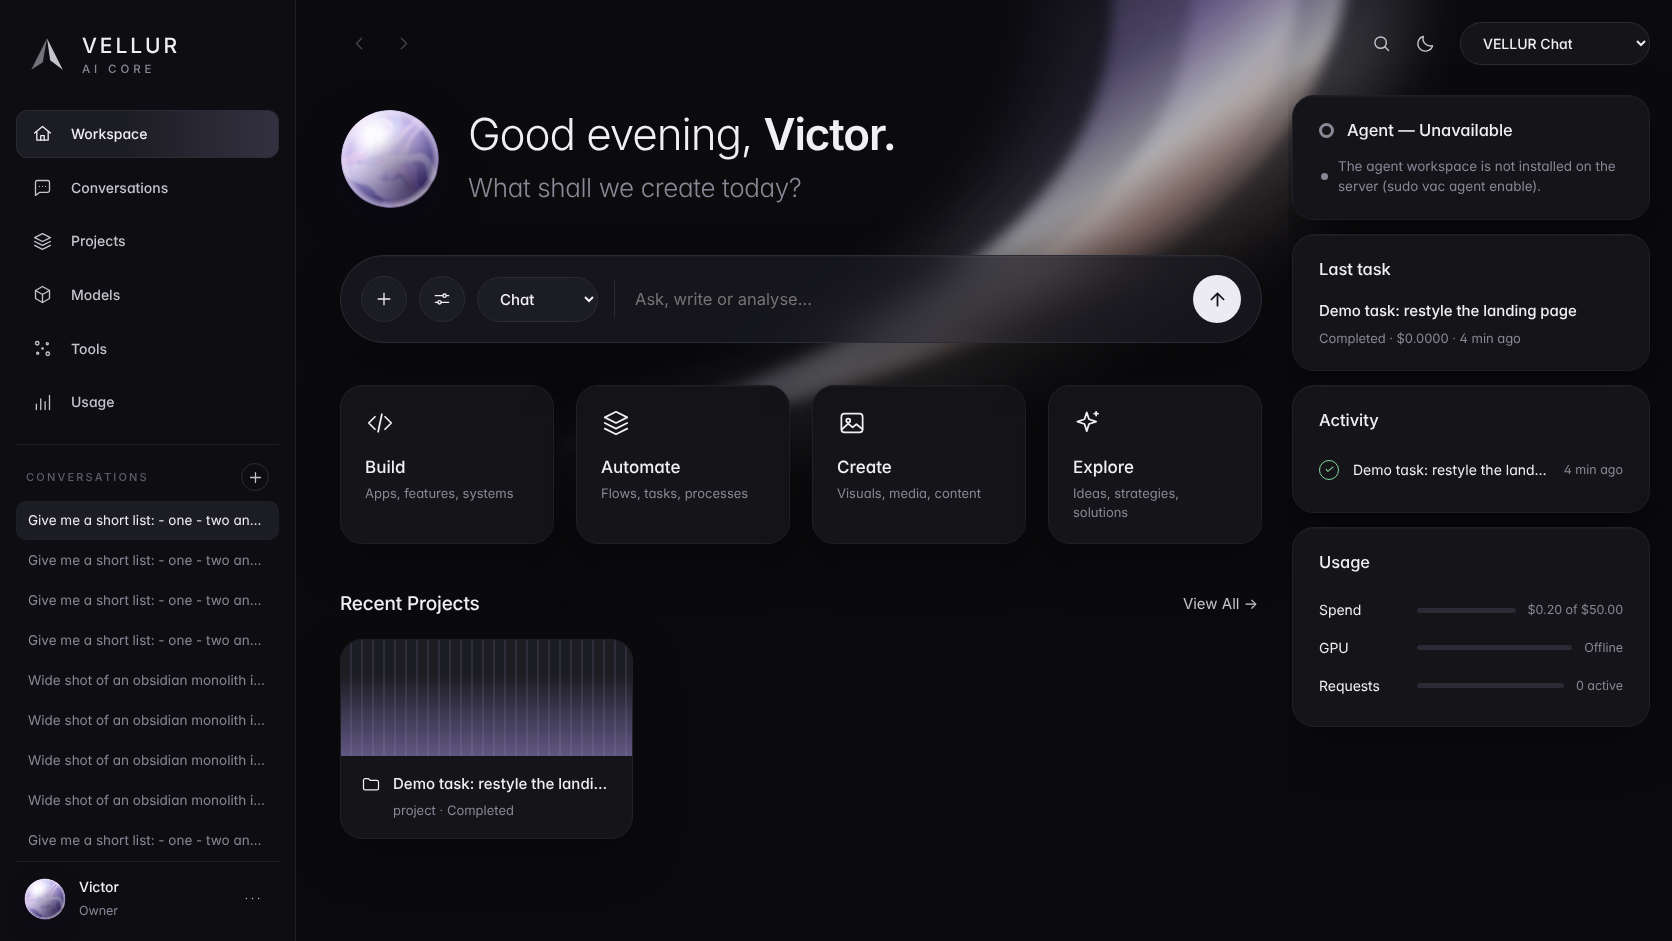
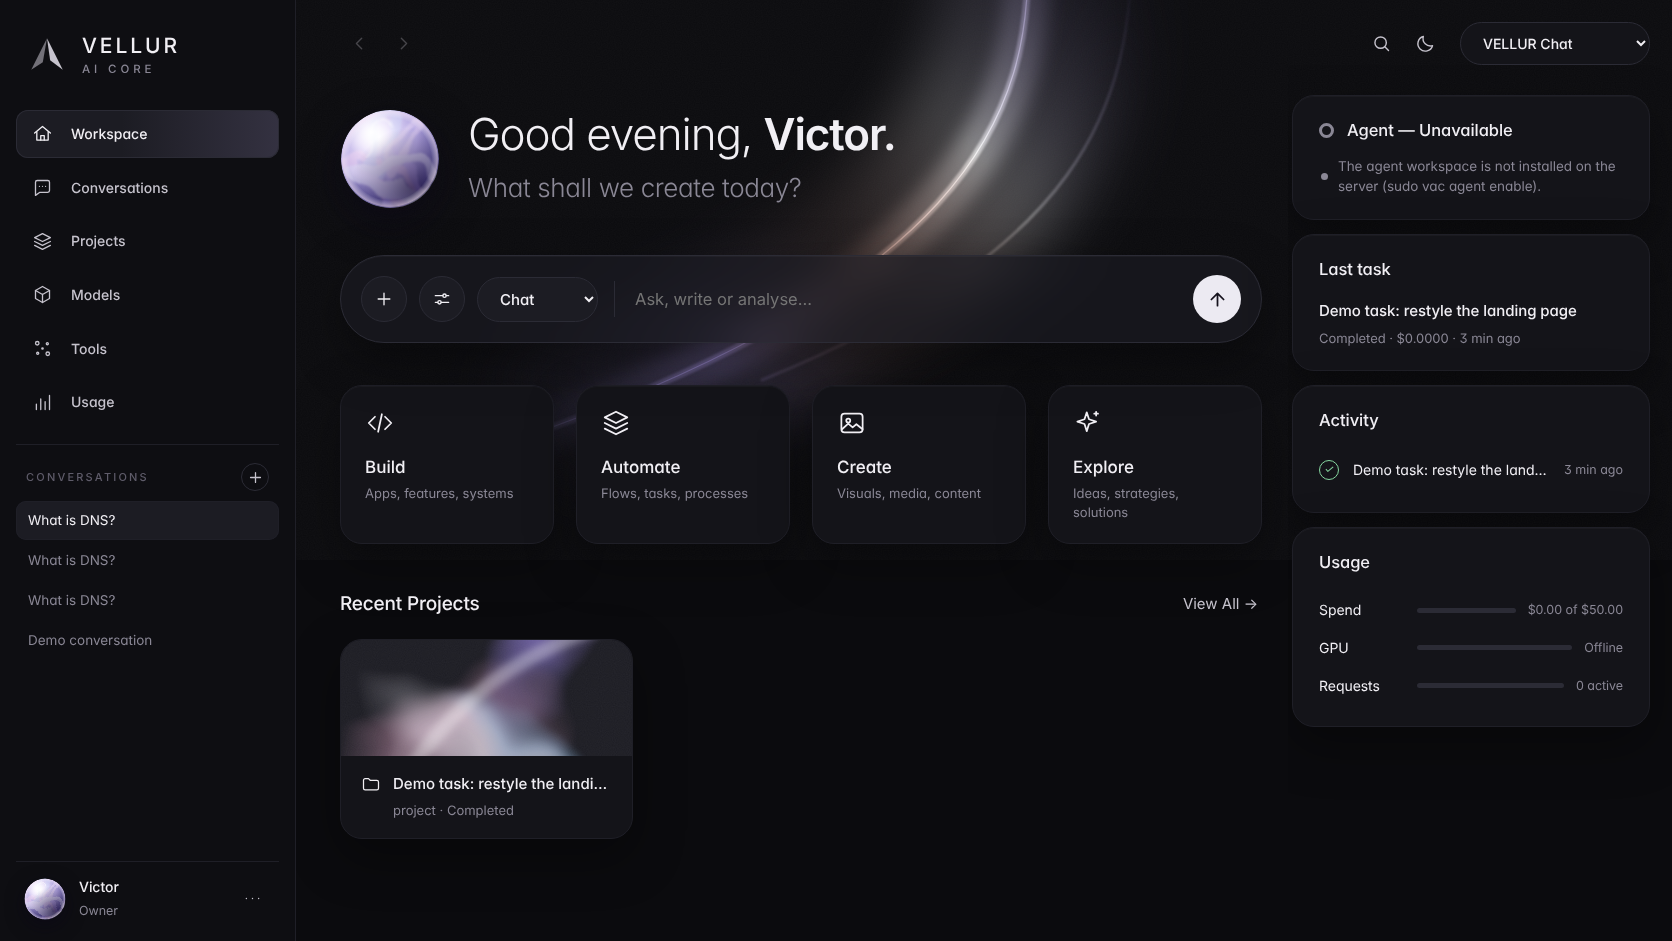
Workspace: liquid nacre project covers and a clean ray
- project covers: the procedural vertical bars are gone; each cover is soft pearl-tinted colour
  fields bent by low-frequency noise with one blurred highlight fold, seeded by the project id so a
  project keeps its cover
- the ray behind the greeting was one heavily blurred shape stretched by the SVG, which showed
  banding and soft clipping; it is now a wide glow, a mid layer and a crisp core along one curve,
  with explicit filter regions (no clipped edges) and a fine grain layer against banding

Claude-Session: https://claude.ai/code/session_01YF5NeR3mHHJ3x8XbKx5dvb

diff --git a/autopilot/app/static/dashboard.html b/autopilot/app/static/dashboard.html
@@ -443,10 +443,8 @@ body.is-admin[data-view="home"] .wrap,body.is-admin[data-view="home"] .grid{disp
 .hrec{display:grid;grid-template-columns:repeat(3,minmax(0,1fr));gap:22px}
 .hrec .pc{position:relative;display:block;text-align:left;padding:0;background:var(--panel);color:var(--text);border:1px solid var(--line);border-radius:22px;overflow:hidden;font-weight:400;min-height:0}
 .hrec .pc:hover{border-color:var(--line3);opacity:1}
-.pc .cover{display:block;height:116px;background-color:var(--raise)}
-.pc .cover.c0{background-image:radial-gradient(120% 140% at 85% -30%,transparent 46%,var(--pearl-b) 47%,transparent 62%),radial-gradient(90% 120% at 110% 120%,var(--pearl-c),transparent 60%)}
-.pc .cover.c1{background-image:linear-gradient(180deg,transparent 30%,var(--pearl-b)),repeating-linear-gradient(90deg,transparent 0 9px,var(--accent-dim) 9px 11px)}
-.pc .cover.c2{background-image:linear-gradient(118deg,transparent 52%,var(--pearl-b) 53%,transparent 78%),linear-gradient(160deg,var(--accent-dim),transparent 60%)}
+.pc .cover{display:block;height:116px;background:var(--raise);overflow:hidden}
+.pc .cover svg{display:block;width:100%;height:100%}
 .pc .meta{display:flex;align-items:flex-start;gap:12px;padding:16px 20px 18px}.pc .meta svg.ic{width:20px;height:20px;margin-top:2px;stroke-width:1.5}
 .pc .meta div{min-width:0;flex:1}.pc .meta b{display:block;font-size:15px;font-weight:500;white-space:nowrap;overflow:hidden;text-overflow:ellipsis}.pc .meta small{display:block;color:var(--muted);font-size:13px;margin-top:5px;white-space:nowrap;overflow:hidden;text-overflow:ellipsis}
 .hempty{grid-column:1/-1;color:var(--muted);font-size:14px;border:1px dashed var(--line2);border-radius:22px;padding:26px}
@@ -631,13 +629,15 @@ body.is-admin[data-view="home"] .wrap,body.is-admin[data-view="home"] .grid{disp
 
     <section class="admin-only" id="homeCard" data-tab="home">
       <svg class="ribbon" viewBox="0 0 1400 560" preserveAspectRatio="xMaxYMin slice" aria-hidden="true"><defs>
-        <linearGradient id="rbA" x1=".25" y1=".1" x2=".95" y2=".75"><stop offset="0" stop-color="var(--pearl-b)" stop-opacity="0"/><stop offset=".42" stop-color="var(--pearl-b)"/><stop offset=".6" stop-color="var(--pearl-a)"/><stop offset=".72" stop-color="var(--pearl-c)"/><stop offset="1" stop-color="var(--pearl-b)" stop-opacity="0"/></linearGradient>
-        <linearGradient id="rbF" x1="0" y1="0" x2="0" y2="1"><stop offset="0" stop-color="#fff" stop-opacity=".9"/><stop offset=".5" stop-color="#fff" stop-opacity=".8"/><stop offset="1" stop-color="#fff" stop-opacity="0"/></linearGradient>
-        <mask id="rbM" maskUnits="userSpaceOnUse" x="-200" y="-100" width="1800" height="760"><rect x="-200" y="-100" width="1800" height="660" fill="url(#rbF)"/></mask>
-        <filter id="rbBlur" x="-30%" y="-30%" width="160%" height="160%"><feGaussianBlur stdDeviation="34"/></filter><filter id="rbSoft" x="-10%" y="-10%" width="120%" height="120%"><feGaussianBlur stdDeviation="7"/></filter></defs>
-        <g mask="url(#rbM)" transform="translate(150 0)"><path d="M620-40C640 150 560 320 60 470L60 520C700 430 960 240 990-40Z" fill="url(#rbA)" filter="url(#rbBlur)" opacity=".3"/>
-        <path d="M690-40C700 130 640 300 120 452 660 372 900 200 930-40Z" fill="url(#rbA)" filter="url(#rbSoft)" opacity=".75"/>
-        <path d="M770-40C772 110 720 250 330 400 700 318 868 180 880-40Z" fill="url(#rbA)" filter="url(#rbSoft)" opacity=".5"/></g></svg>
+        <linearGradient id="rbA" gradientUnits="userSpaceOnUse" x1="830" y1="-40" x2="230" y2="460"><stop offset="0" stop-color="var(--pearl-b)" stop-opacity=".25"/><stop offset=".28" stop-color="var(--pearl-a)"/><stop offset=".5" stop-color="var(--pearl-c)"/><stop offset=".7" stop-color="var(--pearl-b)"/><stop offset="1" stop-color="var(--pearl-b)" stop-opacity="0"/></linearGradient>
+        <filter id="rbW" filterUnits="userSpaceOnUse" x="-200" y="-300" width="1800" height="1100"><feGaussianBlur stdDeviation="30"/></filter>
+        <filter id="rbM" filterUnits="userSpaceOnUse" x="-200" y="-300" width="1800" height="1100"><feGaussianBlur stdDeviation="9"/></filter>
+        <filter id="rbC" filterUnits="userSpaceOnUse" x="-200" y="-300" width="1800" height="1100"><feGaussianBlur stdDeviation="1.2"/></filter>
+        <filter id="rbN" x="0" y="0" width="100%" height="100%"><feTurbulence type="fractalNoise" baseFrequency=".85" numOctaves="1" seed="7"/><feColorMatrix values="0 0 0 0 .5  0 0 0 0 .5  0 0 0 0 .5  0 0 0 .045 0"/></filter></defs>
+        <g fill="none" stroke="url(#rbA)" stroke-linecap="round">
+          <path d="M755-60C765 120 690 290 210 452" stroke-width="170" opacity=".28" filter="url(#rbW)"/><path d="M755-60C765 120 690 290 210 452" stroke-width="46" opacity=".42" filter="url(#rbM)"/><path d="M755-60C765 120 690 290 210 452" stroke-width="7" opacity=".7" filter="url(#rbC)"/><path d="M755-60C765 120 690 290 210 452" stroke-width="1.3" opacity=".9"/>
+          <path d="M860-60C860 110 810 250 490 380" stroke-width="70" opacity=".16" filter="url(#rbW)"/><path d="M860-60C860 110 810 250 490 380" stroke-width="3" opacity=".35" filter="url(#rbC)"/></g>
+        <rect width="1400" height="560" filter="url(#rbN)"/></svg>
       <div class="hdr"><button class="iconbtn plain" id="navBack" aria-label="Back" disabled><svg class="ic" viewBox="0 0 24 24" aria-hidden="true"><path d="m14.5 6-6 6 6 6"/></svg></button><button class="iconbtn plain" id="navFwd" aria-label="Forward" disabled><svg class="ic" viewBox="0 0 24 24" aria-hidden="true"><path d="m9.5 6 6 6-6 6"/></svg></button><span class="sp"></span>
         <button class="iconbtn plain" id="btnSearch" title="Search conversations and projects (Ctrl+K)" aria-label="Search"><svg class="ic" viewBox="0 0 24 24" aria-hidden="true"><circle cx="11" cy="11" r="6.5"/><path d="m20 20-4.2-4.2"/></svg></button><button class="iconbtn plain" id="btnTheme" title="Switch between dark and light" aria-label="Switch theme"><svg class="ic" viewBox="0 0 24 24" aria-hidden="true"><path d="M20 14.5A8.5 8.5 0 0 1 9.5 4 8.5 8.5 0 1 0 20 14.5z"/></svg></button>
         <select id="homeModel" class="modelpill" aria-label="Model"></select></div>
@@ -1080,6 +1080,22 @@ body.is-admin[data-view="home"] .wrap,body.is-admin[data-view="home"] .grid{disp
       <g clip-path="url(#${id}c)"><circle cx="50" cy="50" r="49" fill="url(#${id}b)"/><g filter="url(#${id}n)" opacity=".62" style="mix-blend-mode:soft-light">${bands}</g>
       <g filter="url(#${id}n)" opacity=".26">${bands}</g><path d="M17 43C21 24 37 13 56 13" fill="none" stroke="rgba(255,255,255,.55)" stroke-width="2.2" stroke-linecap="round" filter="url(#${id}n)"/><circle cx="50" cy="50" r="49" fill="url(#${id}s)"/><circle cx="50" cy="50" r="49" fill="url(#${id}h)"/><circle cx="50" cy="50" r="49" fill="url(#${id}r)"/></g></svg>`;
   }
+  // Project cover: soft colour fields bent by low-frequency noise (liquid nacre), seeded by the project id.
+  let COVER_N = 0;
+  function coverSVG(seed) {
+    const f = (n) => { const x = Math.sin((seed % 100003) * 91.345 + n * 47.853) * 43758.5453; return x - Math.floor(x); };
+    const id = "cv" + (++COVER_N);
+    const tints = ["158,136,236", "236,172,204", "150,196,238", "246,242,252"];
+    const grads = tints.map((c, i) => `<radialGradient id="${id}g${i}"><stop offset="0" stop-color="rgb(${c})"/><stop offset=".55" stop-color="rgb(${c})" stop-opacity=".55"/><stop offset="1" stop-color="rgb(${c})" stop-opacity="0"/></radialGradient>`).join("");
+    const blobs = tints.map((c, i) =>
+      `<ellipse cx="${(f(i) * 300).toFixed(0)}" cy="${(f(i + 4) * 120).toFixed(0)}" rx="${(90 + f(i + 8) * 110).toFixed(0)}" ry="${(30 + f(i + 12) * 50).toFixed(0)}" transform="rotate(${(f(i + 16) * 180 - 90).toFixed(0)} 150 60)" fill="url(#${id}g${i})" opacity="${[.85, .6, .55, .7][i]}"/>`).join("");
+    return `<svg viewBox="0 0 300 120" preserveAspectRatio="xMidYMid slice" aria-hidden="true"><defs>
+      ${grads}
+      <filter id="${id}f" x="-30%" y="-30%" width="160%" height="160%" color-interpolation-filters="sRGB"><feTurbulence type="fractalNoise" baseFrequency="${(.006 + f(20) * .006).toFixed(4)} ${(.012 + f(21) * .01).toFixed(4)}" numOctaves="2" seed="${seed % 997}" result="n"/><feDisplacementMap in="SourceGraphic" in2="n" scale="${(70 + f(22) * 50).toFixed(0)}" xChannelSelector="R" yChannelSelector="G"/><feGaussianBlur stdDeviation="3"/></filter>
+      <filter id="${id}s" x="-20%" y="-20%" width="140%" height="140%"><feGaussianBlur stdDeviation="4"/></filter>
+      <filter id="${id}d"><feTurbulence type="fractalNoise" baseFrequency=".9" numOctaves="1" seed="3"/><feColorMatrix values="0 0 0 0 .5  0 0 0 0 .5  0 0 0 0 .5  0 0 0 .07 0"/></filter></defs>
+      <g filter="url(#${id}f)">${blobs}</g><path d="M${(f(30) * 120).toFixed(0)} 135C${(60 + f(31) * 80).toFixed(0)} 70 ${(160 + f(32) * 60).toFixed(0)} 25 ${(260 + f(33) * 60).toFixed(0)} -15" fill="none" stroke="rgba(255,255,255,.32)" stroke-width="${(10 + f(34) * 8).toFixed(1)}" stroke-linecap="round" filter="url(#${id}s)"/><rect width="300" height="120" filter="url(#${id}d)"/></svg>`;
+  }
   let IDENT = "";
   function identity(s) {
     const st = (s && s.settings) || null; if (!st) return;
@@ -1148,8 +1164,8 @@ body.is-admin[data-view="home"] .wrap,body.is-admin[data-view="home"] .grid{disp
     const tasks = TASKS.slice(0, 3), convs = HOME.convs.slice(0, 3), folder = '<svg class="ic" viewBox="0 0 24 24" aria-hidden="true"><path d="M3 7.5a2 2 0 0 1 2-2h4l2 2h8a2 2 0 0 1 2 2V17a2 2 0 0 1-2 2H5a2 2 0 0 1-2-2z"/></svg>';
     const outcome = (t) => !FINAL_STATES.includes(t.state) ? "Working" : (OUTCOME[t.outcome] || [t.state])[0];
     $("recTitle").textContent = tasks.length ? "Recent Projects" : "Recent Conversations";
-    $("recGrid").innerHTML = tasks.length ? tasks.map(t => `<button type="button" class="pc" data-task="${t.id}"><span class="cover c${t.id % 3}"></span><span class="meta">${folder}<div><b>${esc(t.title)}</b><small>${esc((t.repo || "Empty workspace").split("/").pop())} · ${esc(outcome(t))}</small></div></span></button>`).join("")
-      : convs.length ? convs.map(c => `<button type="button" class="pc" data-conv="${c.id}"><span class="cover c${c.id % 3}"></span><span class="meta">${folder}<div><b>${esc(c.title)}</b><small>Conversation · ${esc(agoShort(c.updated))}</small></div></span></button>`).join("")
+    $("recGrid").innerHTML = tasks.length ? tasks.map(t => `<button type="button" class="pc" data-task="${t.id}"><span class="cover">${coverSVG(t.id)}</span><span class="meta">${folder}<div><b>${esc(t.title)}</b><small>${esc((t.repo || "Empty workspace").split("/").pop())} · ${esc(outcome(t))}</small></div></span></button>`).join("")
+      : convs.length ? convs.map(c => `<button type="button" class="pc" data-conv="${c.id}"><span class="cover">${coverSVG(c.id + 7919)}</span><span class="meta">${folder}<div><b>${esc(c.title)}</b><small>Conversation · ${esc(agoShort(c.updated))}</small></div></span></button>`).join("")
       : HOME.loaded ? '<div class="hempty">Nothing here yet. Your projects and conversations appear here once you start one above.</div>' : "";
     $("recGrid").querySelectorAll("[data-task]").forEach(b => b.onclick = () => openProject(Number(b.dataset.task)));
     $("recGrid").querySelectorAll("[data-conv]").forEach(b => b.onclick = () => openChat(Number(b.dataset.conv)));
